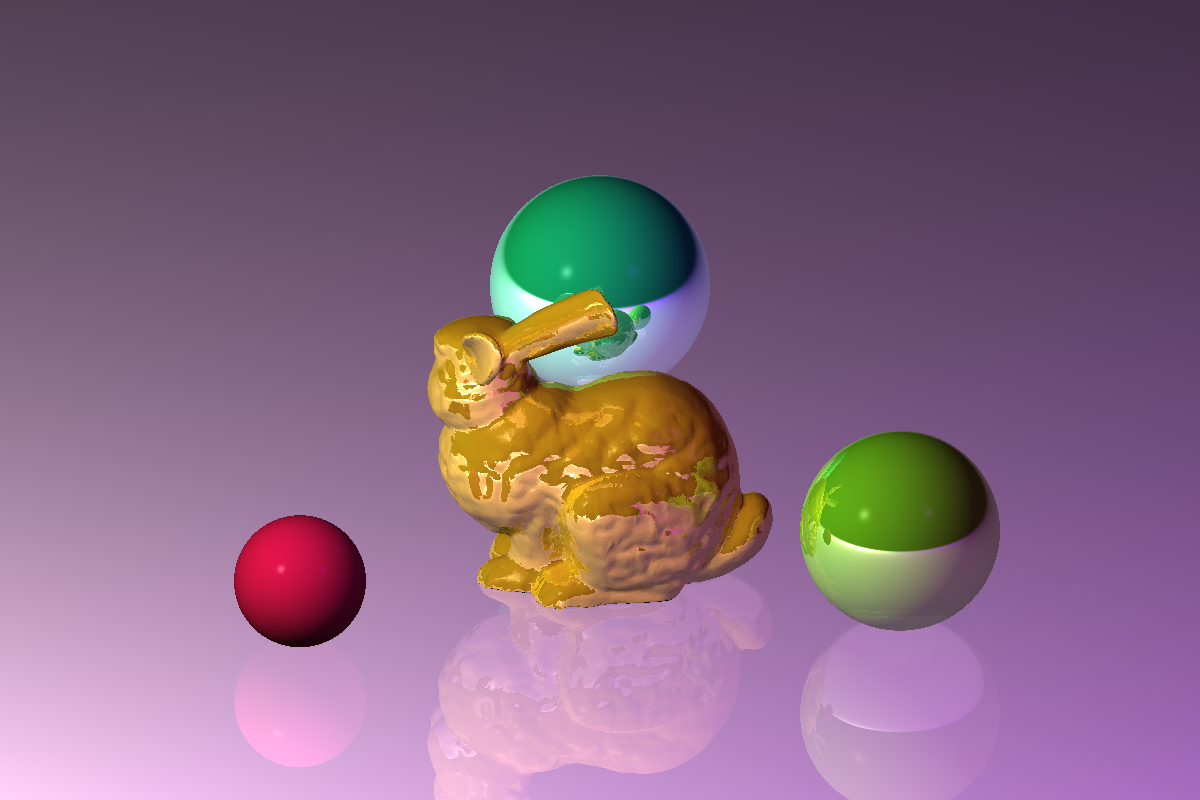
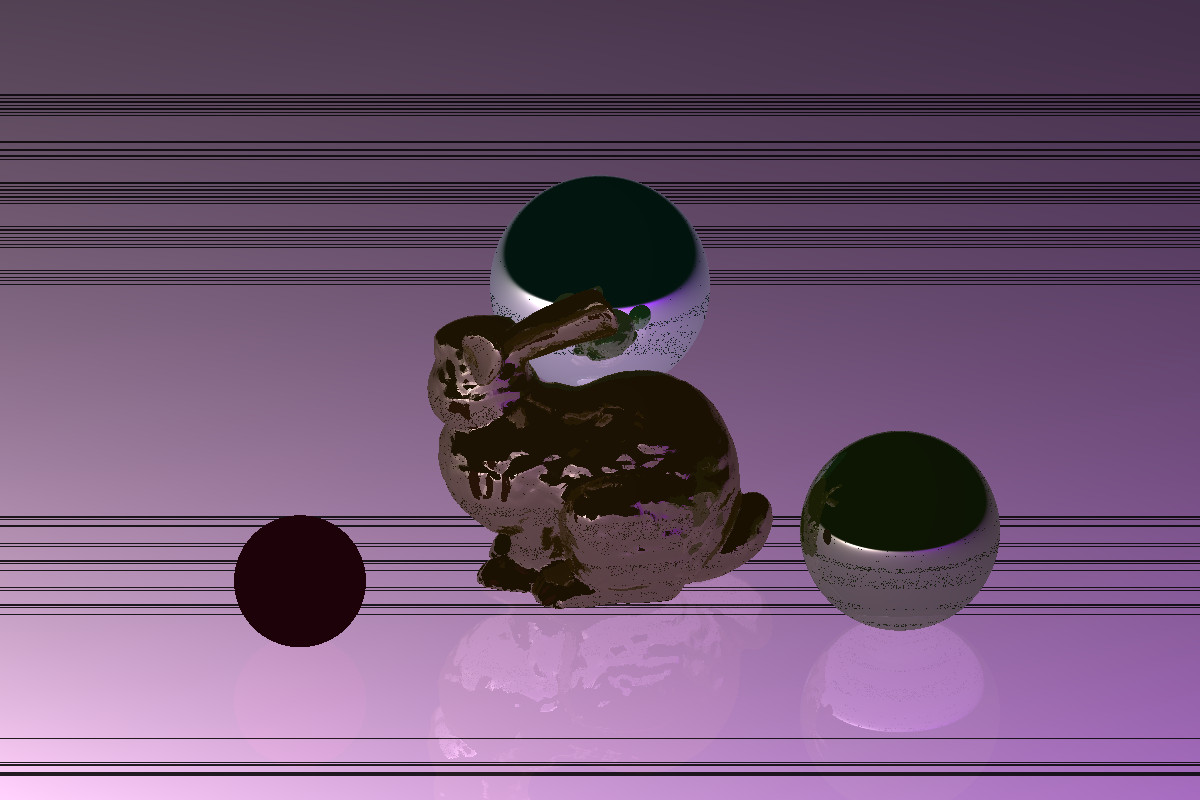
Visibility Tester - shadows not working

Changed region(s): [[0.0, 0.0938, 1.0, 0.8125], [0.0, 0.8438, 1.0, 1.0], [0.8017, 0.75, 1.0, 0.7812]]

diff --git a/src/integrator/original.rs b/src/integrator/original.rs
@@ -49,7 +49,7 @@ impl OriginalRayTracer {
                 // // the occlusion check doesn't accidentally intersect the surface.
                 // let in_shadow = Self::is_occluded(scene, interaction.over_point(), *light);
 
-                let surface = Self::phong_shading(material, light, &interaction, false);
+                let surface = Self::shading(scene, material, light, &interaction);
 
                 let reflected = Self::reflected_color(scene, material, interaction, remaining);
 
@@ -89,13 +89,13 @@ impl OriginalRayTracer {
         }
     }
 
-    fn phong_shading(
+    fn shading(
+        scene: &Scene,
         material: &MaterialV1,
         light: &Light, // FIXME
         interaction: &SurfaceInteraction,
-        in_shadow: bool,
     ) -> RgbSpectrum {
-        let (incident_light, to_light, _vis) = light.li(interaction);
+        let (incident_light, to_light, vis) = light.li(interaction);
         let effective_color = &material.color * incident_light;
         let ambient = &effective_color * material.ambient;
 
@@ -103,9 +103,7 @@ impl OriginalRayTracer {
         // If it's negative then the light is on the other side of the surface.
         let light_dot_normal = to_light.dot(interaction.original_geometry.normal);
 
-        let (diffuse, specular) = if in_shadow || light_dot_normal < 0.0 {
-            (RgbSpectrum::constant(0.0), RgbSpectrum::constant(0.0))
-        } else {
+        let (diffuse, specular) = if light_dot_normal >= 0.0 && !vis.unocculuded(scene) {
             let diffuse = effective_color * material.diffuse * light_dot_normal;
 
             // reflect_dot_eye is the cosine of the angle between the reflection and
@@ -120,6 +118,8 @@ impl OriginalRayTracer {
             };
 
             (diffuse, specular)
+        } else {
+            (RgbSpectrum::black(), RgbSpectrum::black())
         };
 
         ambient + diffuse + specular

diff --git a/src/light/visibility.rs b/src/light/visibility.rs
@@ -1,9 +1,26 @@
-use crate::scene::Scene;
+use cgmath::{InnerSpace, Point3};
 
-pub struct VisibilityTester {}
+use crate::{ray::Ray, scene::Scene};
+
+pub struct VisibilityTester {
+    p0: Point3<f32>,
+    p1: Point3<f32>,
+}
 
 impl VisibilityTester {
+    pub fn new(p0: Point3<f32>, p1: Point3<f32>) -> Self {
+        Self { p0, p1 }
+    }
+
+    /// Trace a shadow ray between `p0` and `p1`, and return true if there is an
+    /// unoccluded path between the two points.
+    ///
+    /// This ignores the effects of any scattering medium that the ray passes
+    /// through. If the effects of a scattering medium need to be taken into
+    /// account, `beam_transmittance` should be called instead.
     pub fn unocculuded(&self, scene: &Scene) -> bool {
-        true // TODO
+        let direction = (self.p0 - self.p1).normalize();
+        let ray = Ray::new(self.p0, direction);
+        scene.ray_intersection(&ray).is_none()
     }
 }

diff --git a/src/light/point.rs b/src/light/point.rs
@@ -33,7 +33,7 @@ impl PointLight {
         let light_to_point = self.position - interaction.point;
         let li = self.intensity / light_to_point.magnitude2();
         let wi = light_to_point.normalize();
-        let vis = VisibilityTester {}; // FIXME;
+        let vis = VisibilityTester::new(interaction.point, self.position);
         (li, wi, vis)
     }
 

diff --git a/TODO.md b/TODO.md
@@ -5,10 +5,10 @@
 [X] Start replacing old render function with new one that uses `Sampler`. Make sure demo still works.
 [X] Parallelize render to reduce render times.
 [X] Use Stanford bunny model.
-[ ] Light sources. **CURRENT**
-    [ ] Point light.
+[X] Light sources.
+    [X] Point light.
 [ ] Start replacing old `RayTracer` with limited version of `Whitted`.
-    [ ] Visibility tester.
+    [ ] Visibility tester. **CURRENT**
     [ ] Implement some working BSDFs.
         [ ] Perfect specular Fresnel objects.
         [X] Perfect diffuse Lambertian reflection.
